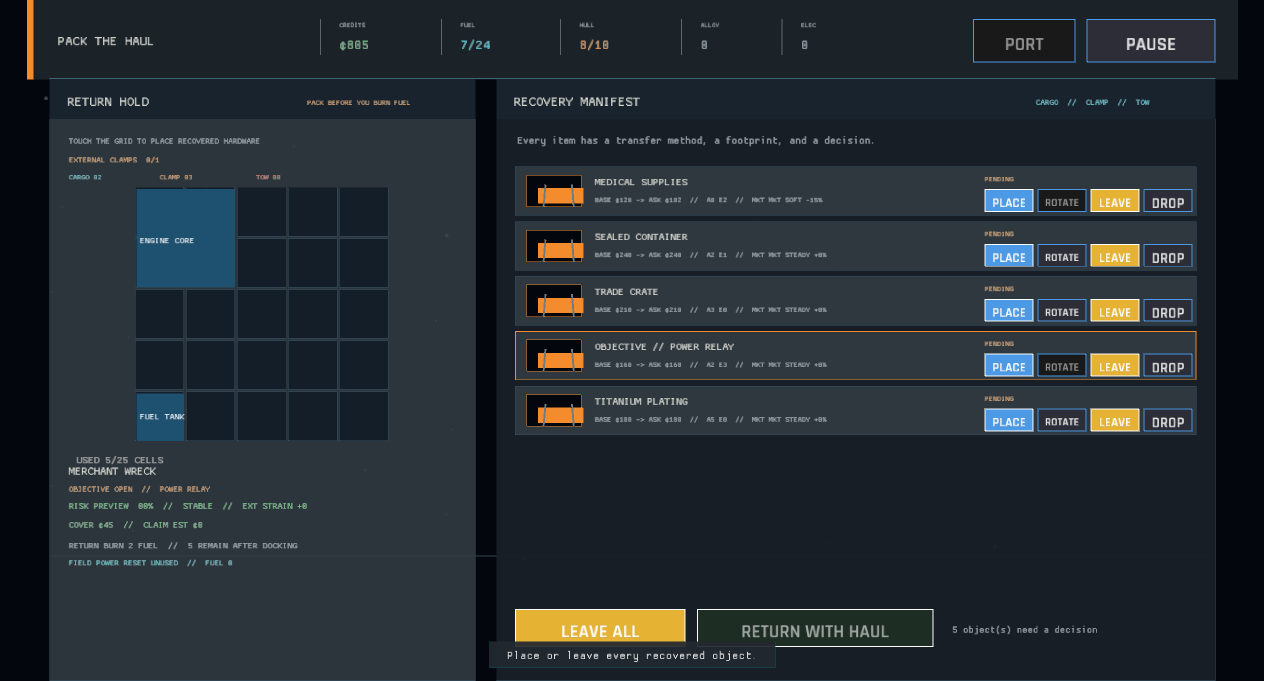
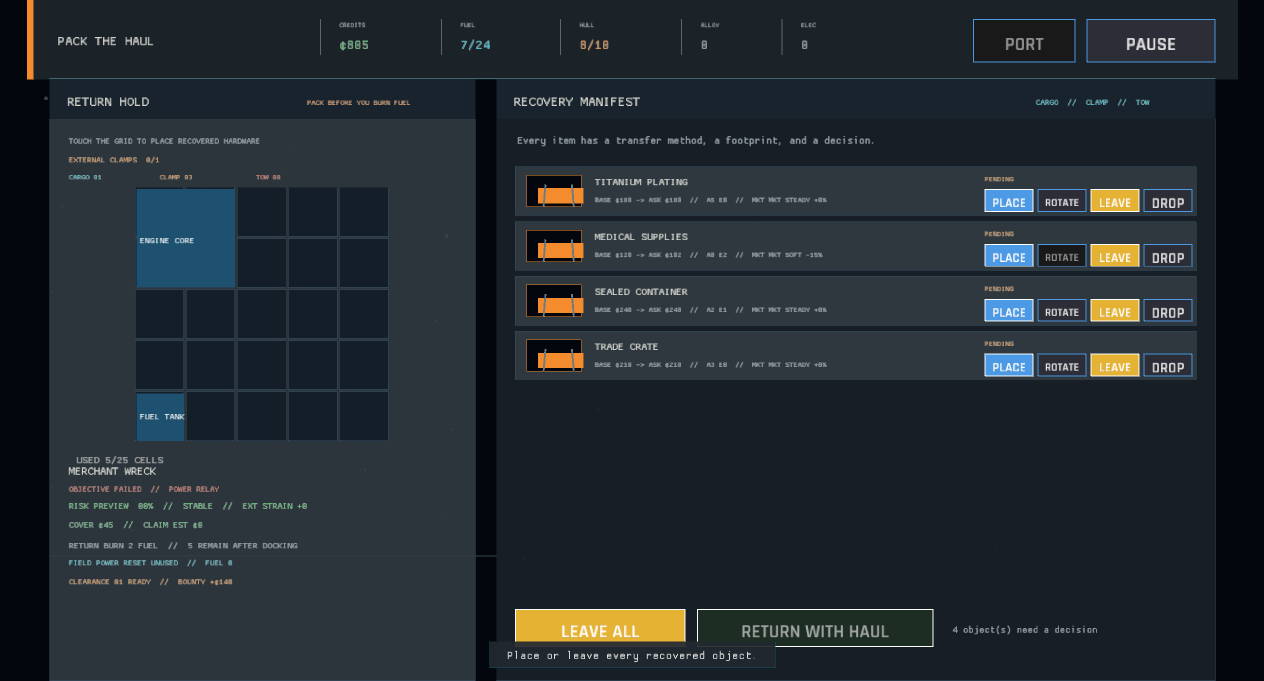
The return hold totals what a cleared frame will pay (clearance forecast readout)
Packing now forecasts newly clearable sections and their exact bounty beside the return-burn and field-power notices. The capture fixture proves the payout is visible before the captain commits to docking.

diff --git a/src/game/capture.rs b/src/game/capture.rs
@@ -642,6 +642,33 @@ impl Game {
             "packing" => {
                 self.selected_voyage_plan = crate::engine::VoyagePlan::Cautious;
                 self.session.briefing_voyage_plan = self.selected_voyage_plan;
+                if let Some(progress) = self.session.site_progress.get_mut("merchant_wreck") {
+                    progress.removed_targets = vec![
+                        "industrial_battery".to_owned(),
+                        "navigation_computer".to_owned(),
+                        "engine_assembly".to_owned(),
+                    ];
+                    progress.operation_log = vec![
+                        WorkspaceLogEntry::new(
+                            1,
+                            WorkspaceLogEvent::TargetRecovered,
+                            Some("cargo_bay"),
+                            Some("industrial_battery"),
+                        ),
+                        WorkspaceLogEntry::new(
+                            2,
+                            WorkspaceLogEvent::TargetRecovered,
+                            Some("cargo_bay"),
+                            Some("navigation_computer"),
+                        ),
+                        WorkspaceLogEntry::new(
+                            3,
+                            WorkspaceLogEvent::TargetRecovered,
+                            Some("cargo_bay"),
+                            Some("engine_assembly"),
+                        ),
+                    ];
+                }
                 let _ = self.session.begin_expedition_with_plan(
                     "merchant_wreck",
                     &self.data,

diff --git a/src/ui/salvage_items.rs b/src/ui/salvage_items.rs
@@ -178,6 +178,25 @@ fn draw_hold_panel(ctx: &UiContext<'_>, actions: &mut Vec<UiAction>) {
         11.0,
         visual_theme::cyan(),
     );
+    let clearance = ctx
+        .session
+        .expedition
+        .as_ref()
+        .map_or((0, 0), |expedition| {
+            ctx.session
+                .site_clearance_ready_summary(&expedition.site_id, ctx.data)
+        });
+    draw_text(
+        clearance_forecast_label(clearance.0, clearance.1),
+        hold.x + 20.0,
+        hold.y + 534.0,
+        11.0,
+        if clearance.0 > 0 {
+            visual_theme::amber()
+        } else {
+            visual_theme::text_dim()
+        },
+    );
 }
 
 fn transfer_counts(ctx: &UiContext<'_>) -> (usize, usize, usize) {
@@ -525,6 +544,17 @@ fn power_cycle_label(used: u8) -> String {
         "FIELD POWER RESET USED  //  FUEL -1".to_owned()
     } else {
         "FIELD POWER RESET UNUSED  //  FUEL 0".to_owned()
+    }
+}
+
+fn clearance_forecast_label(ready_sections: usize, payout: i64) -> String {
+    if ready_sections == 0 {
+        "CLEARANCE 00 READY  //  NO NEW BOUNTY".to_owned()
+    } else {
+        format!(
+            "CLEARANCE {:02} READY  //  BOUNTY +¢{}",
+            ready_sections, payout
+        )
     }
 }
 

diff --git a/src/state/section_clearance.rs b/src/state/section_clearance.rs
@@ -120,6 +120,24 @@ impl GameSession {
             })
     }
 
+    pub fn site_clearance_ready_summary(&self, site_id: &str, data: &GameData) -> (usize, i64) {
+        let Some(site) = data.sites.get(site_id) else {
+            return (0, 0);
+        };
+        site.sections
+            .iter()
+            .fold((0, 0), |(count, payout), section| {
+                let Some(status) = self.section_clearance_status(site_id, &section.id, data) else {
+                    return (count, payout);
+                };
+                if status.ready {
+                    (count + 1, payout + status.reward)
+                } else {
+                    (count, payout)
+                }
+            })
+    }
+
     pub(crate) fn resolve_section_clearance(
         &mut self,
         site_id: &str,

diff --git a/src/ui/salvage_items/tests.rs b/src/ui/salvage_items/tests.rs
@@ -43,3 +43,15 @@ fn packing_hold_names_field_power_cost_and_savings() {
     assert_eq!(power_cycle_label(0), "FIELD POWER RESET UNUSED  //  FUEL 0");
     assert_eq!(power_cycle_label(1), "FIELD POWER RESET USED  //  FUEL -1");
 }
+
+#[test]
+fn packing_hold_forecasts_the_new_section_bounty() {
+    assert_eq!(
+        clearance_forecast_label(1, 140),
+        "CLEARANCE 01 READY  //  BOUNTY +¢140"
+    );
+    assert_eq!(
+        clearance_forecast_label(0, 0),
+        "CLEARANCE 00 READY  //  NO NEW BOUNTY"
+    );
+}
